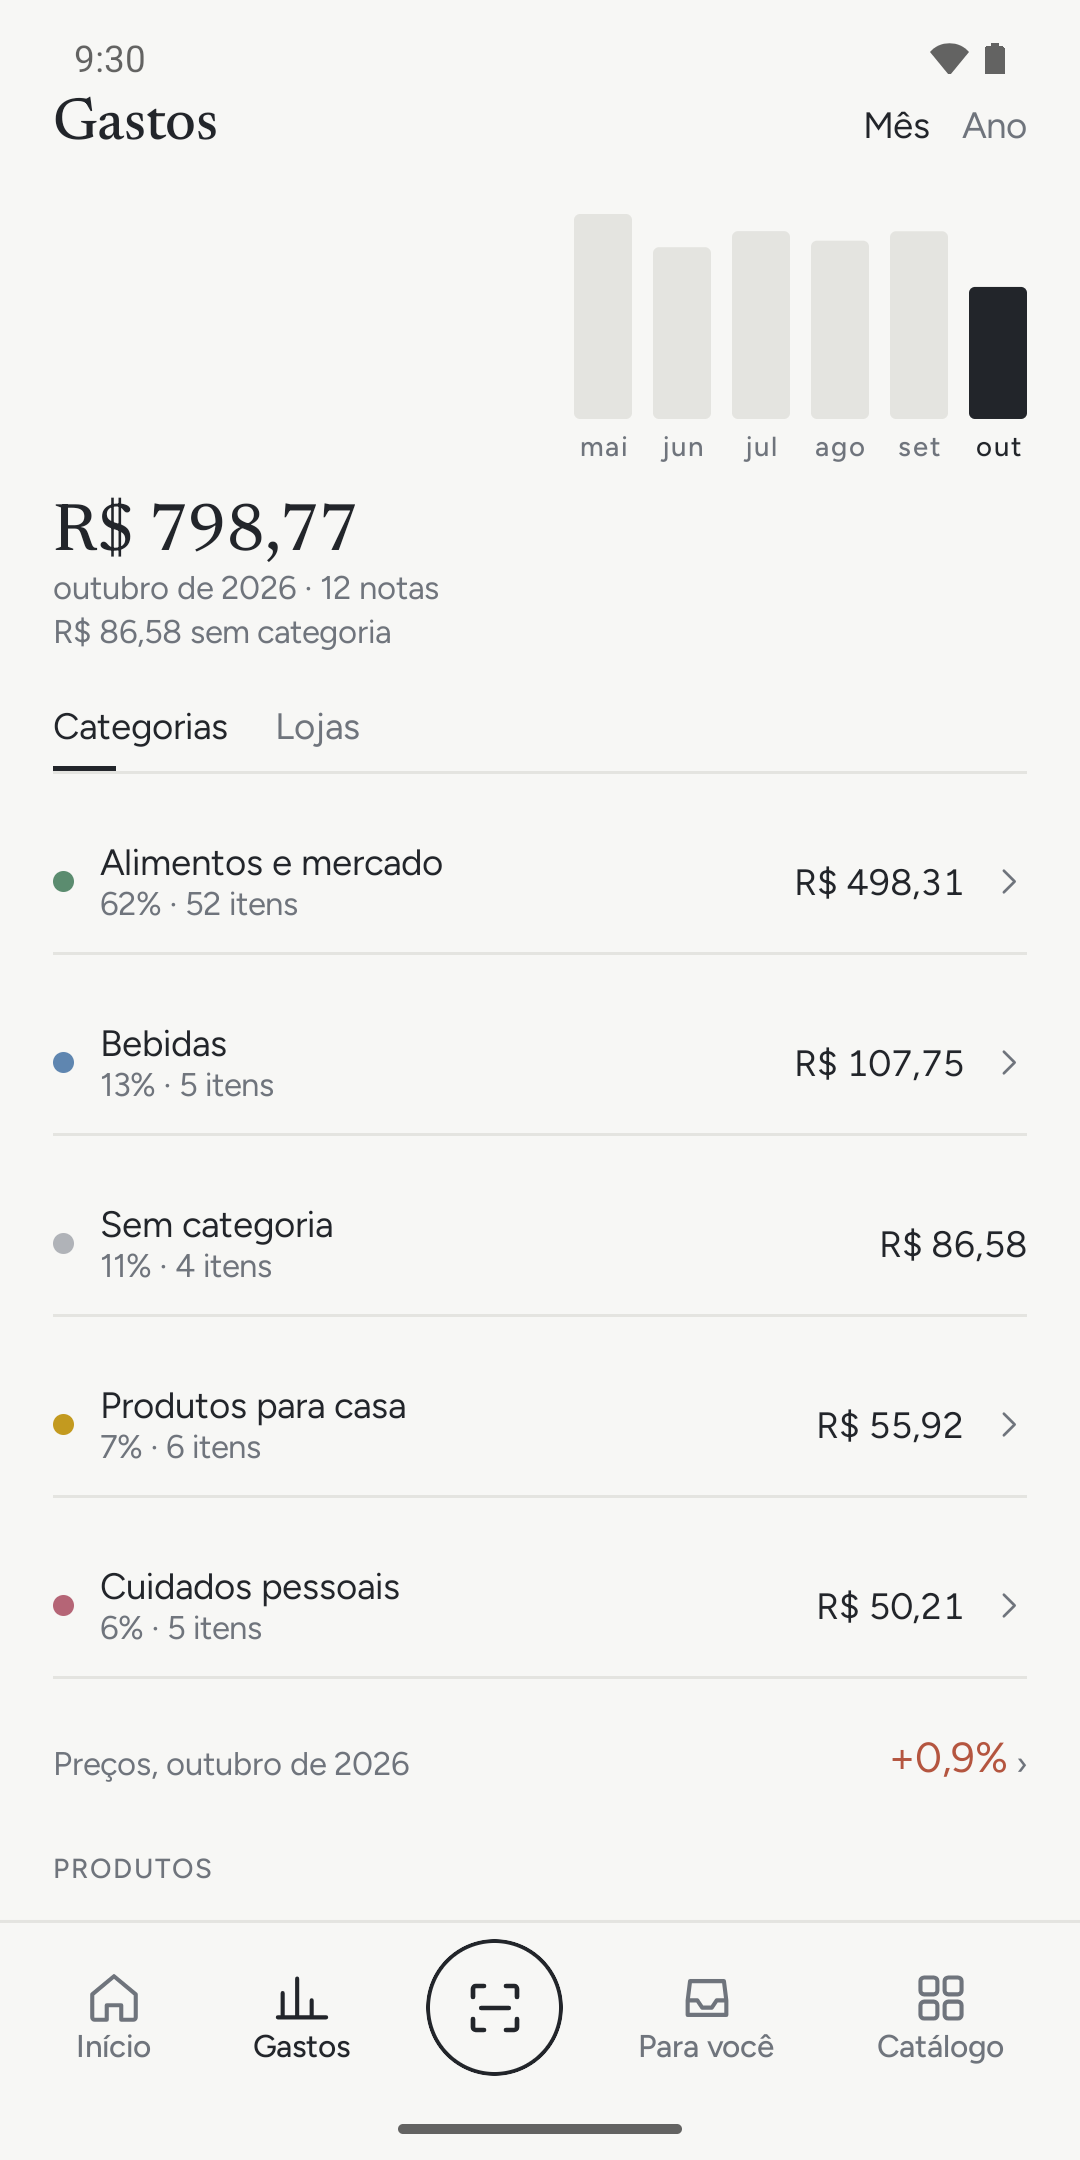
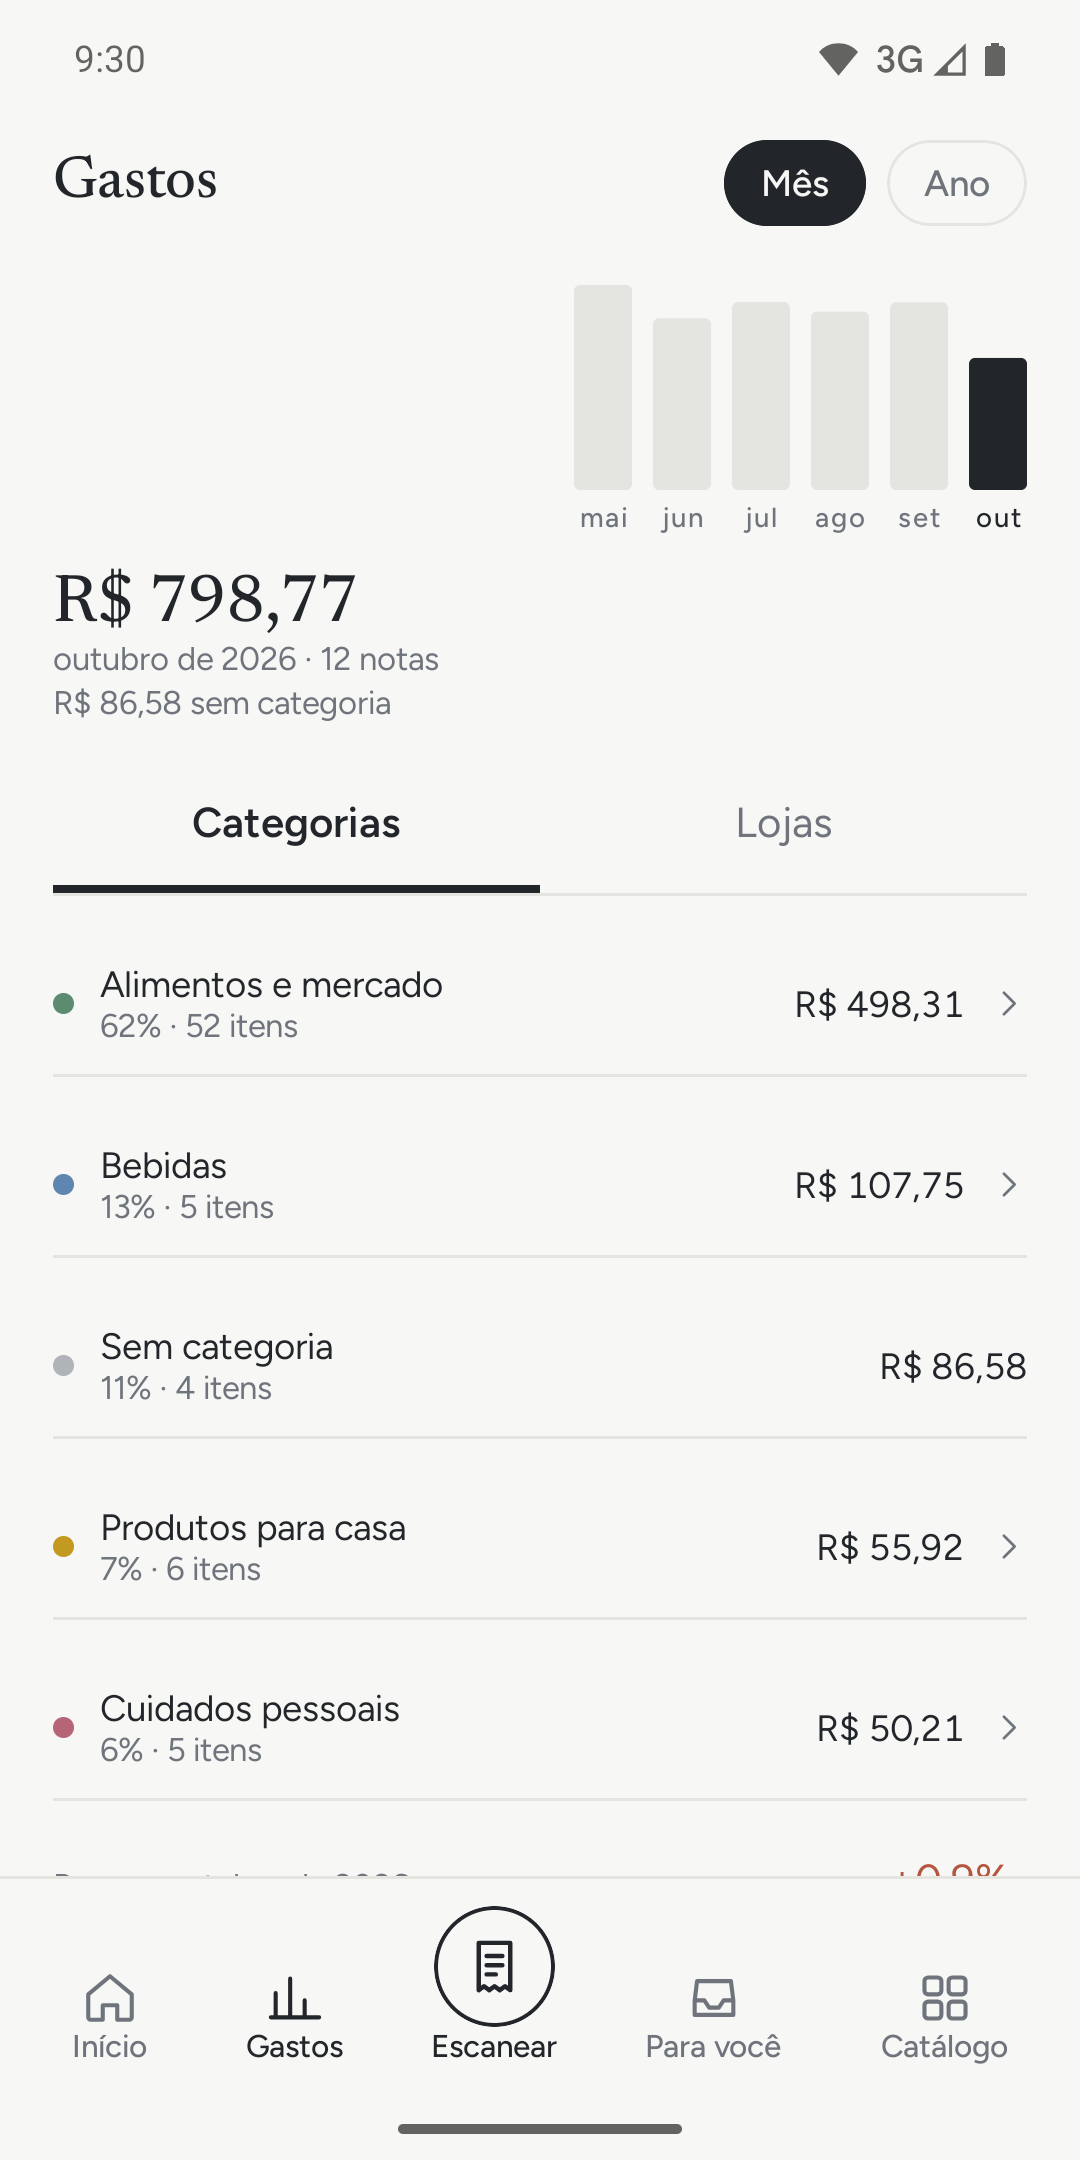
Play listing for the closed test: texts, release notes, review instructions, new screenshots

diff --git a/docs/play-console.md b/docs/play-console.md
@@ -54,27 +54,47 @@ git tag -a play/3 -m "Play internal testing: versionCode 3, versionName 0.0.3" &
 - **Contact:** the same public e-mail as the site (`tools/build-web.py --contact`); website https://caderneta.roqlab.com.br.
 - **Store listing** (needs, besides text): the 512×512 icon `docs/brand/icon-512.png`, the 1024×500 feature graphic
   `docs/brand/feature-graphic.png` (both from `tools/make-icons.py`, D114), and 2–8 phone screenshots. Screenshots:
-  [screenshots/](screenshots/), from the demo caderneta, taken before D112 (they may show the old "JEV" mark).
+  [screenshots/play/](screenshots/play/), from the demo caderneta, retaken 2026-10-31 after D141–D146, in upload
+  order (Início, Gastos, a product, the IPCI, Para você, a receipt, Catálogo, Início in dark mode).
 
-### Listing text (draft, pt-BR)
+### Listing text (pt-BR, for the closed test, 2026-10-31)
 
-The name and positioning are still being discussed (D105); this is enough for internal testing.
+Name: **Caderneta** (kept for now, D105). Checked against the app as of D146; nothing promised that it doesn't do.
 
-- **Short description** (≤ 80): Escaneie o QR da nota fiscal e veja seus gastos e sua inflação pessoal.
-- **Full description:**
+- **Short description** (75 of 80): Escaneie a nota fiscal e acompanhe seus gastos, seus preços e sua inflação.
+- **Full description** (about 1,500 of 4,000):
 
-> Aponte a câmera para o QR code da nota fiscal (NFC-e) e o app guarda a nota inteira: cada item, o preço, a loja e
-> os descontos. Com o tempo, você vê quanto gasta por categoria, como o preço de cada produto mudou e qual é a sua
-> inflação pessoal, calculada com o que você realmente compra.
+> Aponte a câmera para o QR Code da nota fiscal (NFC-e) e o Caderneta guarda a nota inteira: cada item, o preço, a
+> loja e os descontos. Com o tempo, você vê para onde vai o dinheiro e como mudam os preços do que você compra.
 >
-> • Lê notas fiscais de consumidor de Santa Catarina.
+> • Gastos por mês e por ano, por categoria, por produto e por loja.
+> • O histórico de preço de cada produto, loja a loja, com o menor preço à vista.
+> • Pelo código de barras: aponte a câmera para um produto e veja quanto você pagou por ele e onde.
+> • Sua inflação pessoal (IPCI), calculada com o que você realmente compra.
 > • Descontos por item, lidos da foto da nota.
-> • Gastos por mês, por categoria, por produto e por loja.
-> • Funciona sem conta. Com conta, os itens novos ganham categoria sozinhos (você confirma ou corrige), as notas
->   ficam salvas online e podem ser compartilhadas com a família numa caderneta.
+> • Funciona sem conta. Com uma conta, os itens novos ganham categoria sozinhos (você confirma ou corrige), as notas
+>   ficam guardadas online e dá para dividir uma caderneta com quem mora com você.
 >
-> Privacidade: as fotos ficam no seu celular. O CPF e o nome do comprador são removidos antes de salvar. Você pode
-> apagar sua conta e seus dados quando quiser, no app ou em caderneta.roqlab.com.br/apagar-conta.
+> Por enquanto, lê as notas fiscais de consumidor de Santa Catarina. Sem uma nota de SC, toque em "Ver um exemplo"
+> para conhecer o app com notas inventadas.
+>
+> Privacidade: as fotos das notas ficam no seu celular. O CPF e o nome do comprador são removidos antes de salvar.
+> Você pode apagar sua conta e seus dados quando quiser, no app ou em caderneta.roqlab.com.br/apagar-conta.
 >
 > Este app não é da SEFAZ nem de nenhum órgão do governo. Ele abre a página pública de consulta da nota, a mesma que
 > você abriria pelo navegador.
+
+- **Release notes, 0.1.0** (code 3; Play shows up to 500):
+
+> Primeira versão do teste fechado. Novidades: procure um produto pelo código de barras; uma compra por nota, mesmo
+> quando a loja registra o item duas vezes; o preço por unidade em cada compra; deslize o dedo no gráfico para ver
+> cada preço; abas e botões mais fáceis de tocar; o app avisa quando fechou sozinho e o que não sincronizou; envie
+> comentários em Ajustes › Enviar comentário.
+
+- **Closed testing › feedback channel** (shown to testers): the public contact e-mail, once chosen (D146).
+- **Review login instructions** (App content › App access), in English for the reviewer:
+
+> The app works without an account. To see cadernetas and sync, sign in: tap the account icon at the top of Início ›
+> Entrar ou criar conta, and sign in with the account below. Without a receipt from Santa Catarina (Brazil), tap
+> "Ver um exemplo" on the first screen (or on Início while there are no receipts) to explore the app with made-up receipts. Barcode
+> lookup: Catálogo › "Pelo código de barras" (it finds products already bought in the receipts on the phone).

diff --git a/docs/screenshots/README.md b/docs/screenshots/README.md
@@ -18,7 +18,8 @@ To take them again after a UI change:
 
 ## For Play (`play/`)
 
-Taken 2026-10-30 after D112–D114, in upload order: Início, Gastos, a product (Café Montanha), the IPCI, Para você,
+Retaken 2026-10-31 after D141–D146 (the scan button with its label, full-width tabs, pills for every action, the
+unit price per purchase), in upload order: Início, Gastos, a product (Café Montanha), the IPCI, Para você,
 a receipt, the Catálogo, Início in dark mode. PNG at **1080×2160**: Play refuses a side more than twice the other, and
 the emulator's 1080×2400 is 2.22:1, so the screen is set to 2:1 while taking them (the app lays itself out at that
 size; nothing is cropped). Same steps as above, plus:
@@ -26,6 +27,7 @@ size; nothing is cropped). Same steps as above, plus:
 - `adb -e shell wm size 1080x2160` before, `adb -e shell wm size reset` after.
 - A clean status bar also needs `-e command network -e wifi show -e level 4 -e fully true` (or the Wi-Fi icon shows
   "!" on the emulator) and `-e command notifications -e visible false`.
-- They predate D115–D118: no onboarding, and the old scan button (a frame, no label).
+- The emulator's mobile signal shows as "3G" in the status bar (the demo mode's `datatype none` didn't take);
+  `-e command network -e mobile hide` should drop it next time.
 - Keep the files as PNG (Play takes PNG or JPEG, not WebP). The WebP ones above are from 2026-10-28 and still show
   the "JEV" marks and the old account button.

diff --git a/docs/status.md b/docs/status.md
@@ -80,9 +80,9 @@ Caderneta. New ideas go to "After the open store", not into the code.
 Claude:
 1. ~~Parked sync rows shown in Ajustes~~ done (D145: "Não sincronizado", Tentar de novo, Enviar relatório).
 2. ~~"Enviar comentário" in Ajustes~~ done (D146); it e-mails once the user picks a public contact address.
-3. The Play listing in pt-BR: short and full description, feature graphic, the screenshots checked
-   ([screenshots/](screenshots/)), the review login's instructions; the Data safety answers checked against the app
-   ([play-data-safety.md](play-data-safety.md)).
+3. ~~The Play listing in pt-BR~~ done 2026-10-31: texts, release notes and review instructions in
+   [play-console.md](play-console.md), screenshots retaken ([screenshots/play/](screenshots/play/)), the feature
+   graphic kept, Data safety checked (no change). Waits on the contact e-mail.
 4. Fixes from the user's review of the screens and from the shared caderneta with the father: these come first.
    Done from the first review: one purchase per receipt and the unit price first (D141), tappable things look
    tappable and full-width swiping tabs (D142), chart scrubbing (D143), the package's price on the chart (D144).

diff --git a/docs/play-data-safety.md b/docs/play-data-safety.md
@@ -55,6 +55,12 @@ CPFs are covered in uploaded photos (D98).
 
 ## Things worth knowing
 
+- **Checked again 2026-10-31 (D140–D146): no change to the answers.** The crash report (D140), the refused-rows
+  report (D145) and "Enviar comentário" (D146) leave the phone only when the person taps send and picks an app
+  (Android's share sheet, or their own e-mail app once there's a contact address): a user-initiated transfer through
+  another app, not data the app collects. The crash file itself stays on the phone. The barcode lookup (D130) searches
+  only the phone's own databases. Nothing new goes to the server.
+
 - **ML Kit is the only reason for "Required" rows.** The bundled barcode and text models send diagnostics to Google
   (developers.google.com/ml-kit/android-data-disclosure). If that's unwelcome, there's no switch for it in the
   bundled libraries; the alternative would be other OCR/barcode libraries.
